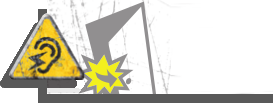
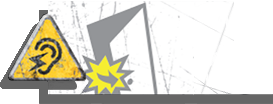
image bruit avec fond perdu correct

diff --git a/card_generator.css b/card_generator.css
@@ -248,7 +248,7 @@ textarea {
 
 .calque_kill_noise_bleeding_1, .calque_kill_noise_bleeding_2{
 	width:271px;
-    margin-left: -54px;
+    margin-left: -55px;
 }
 
 .calque_ultrared {
